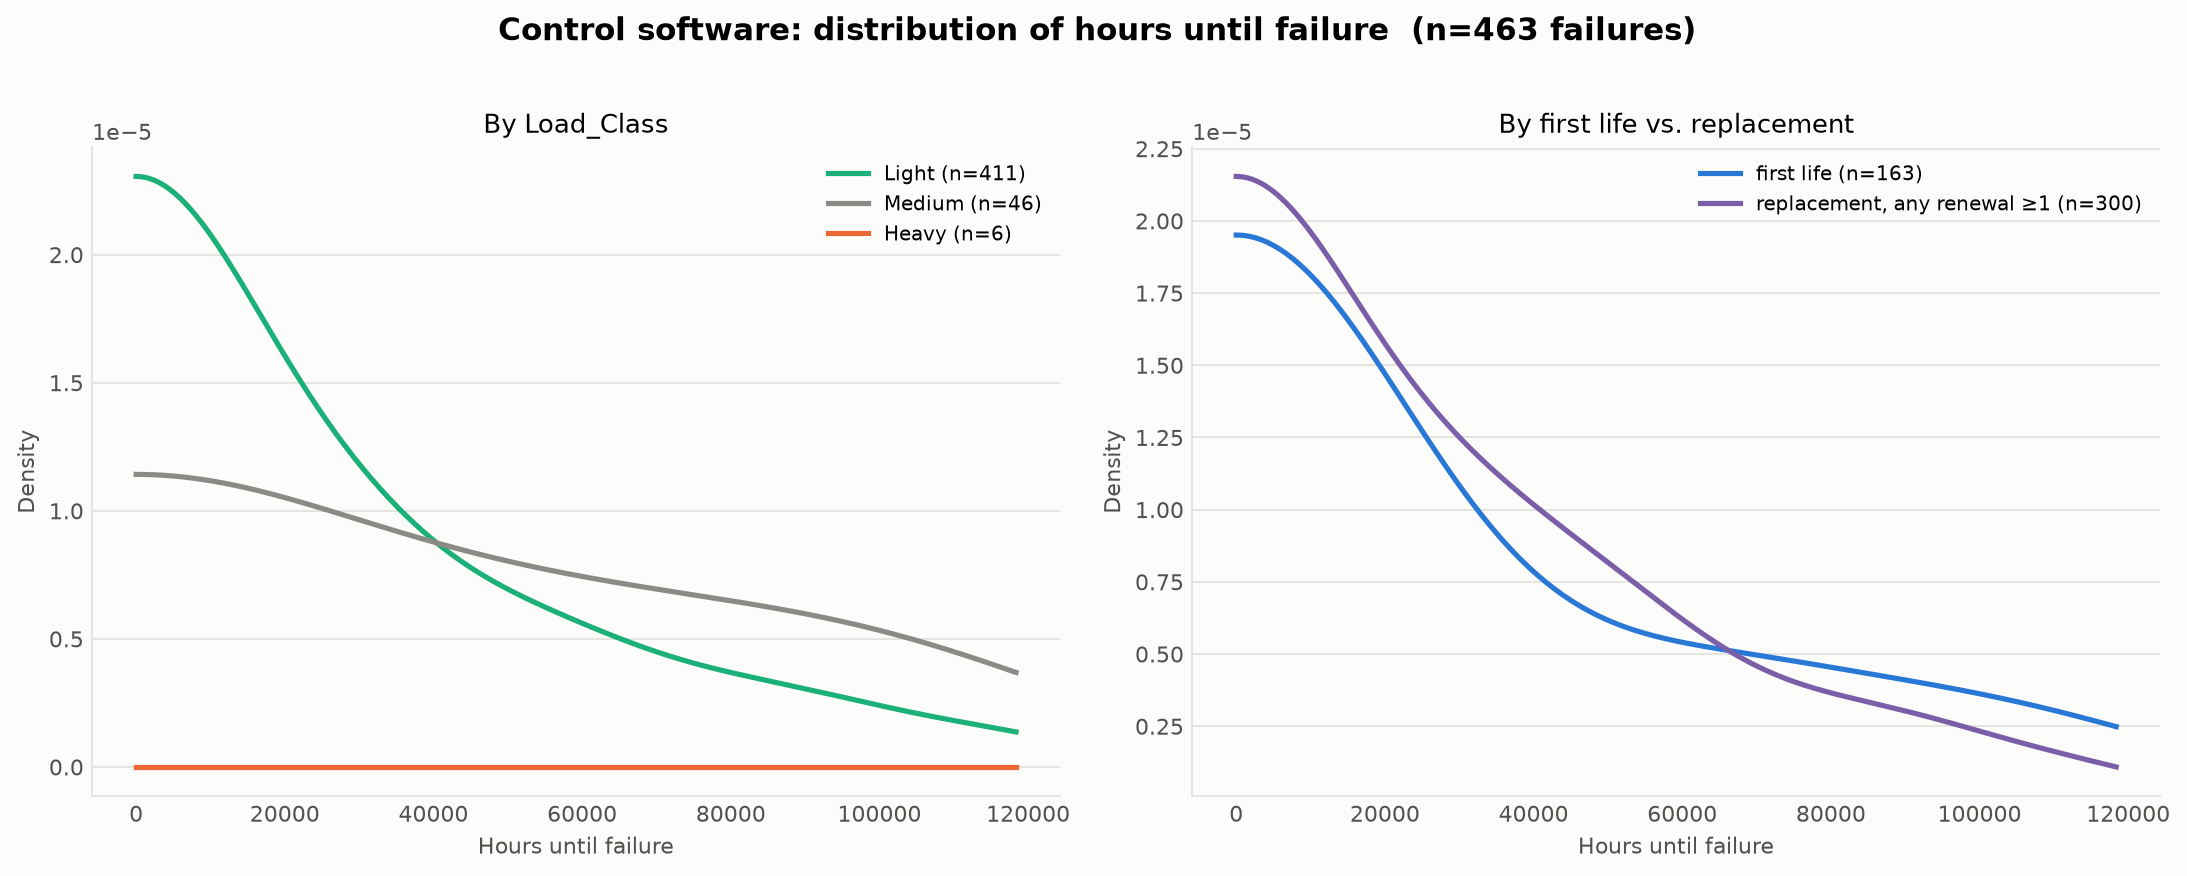
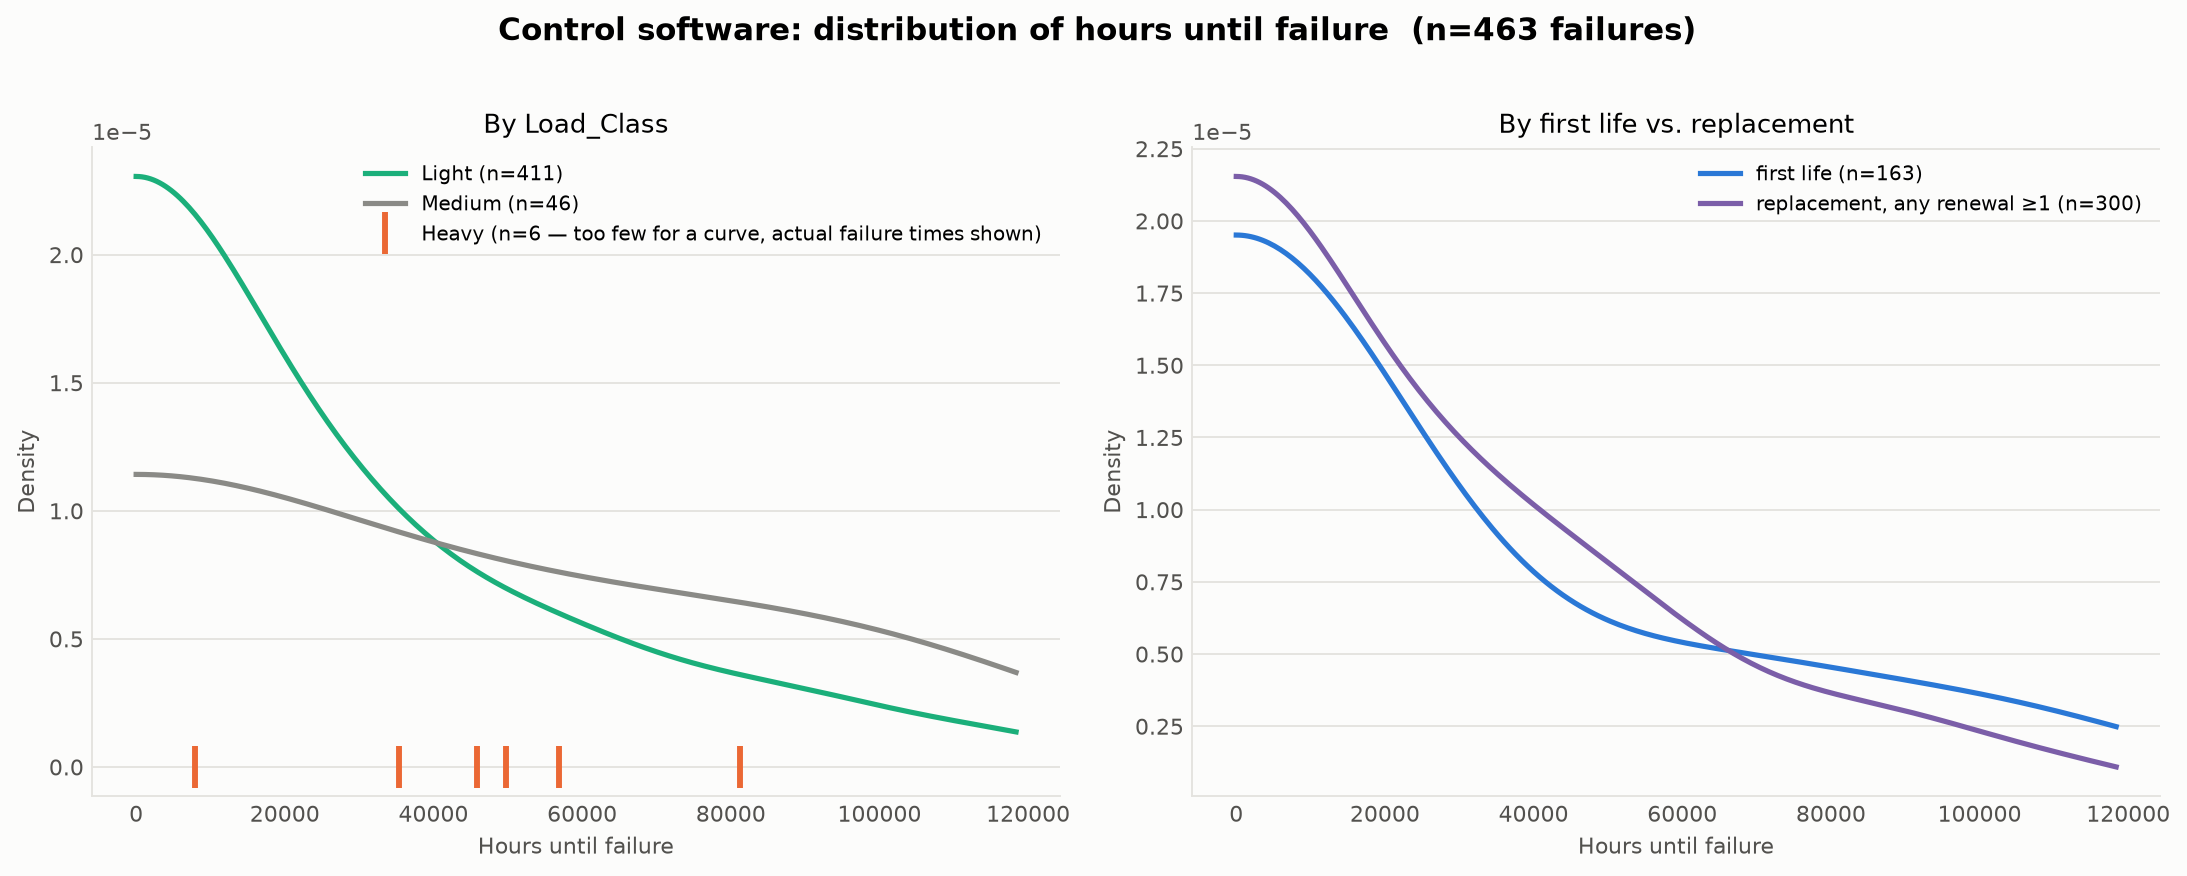
Fix misleading flat-zero line for small-n groups in bell curve plots
The n<15 guard in plot_other_component_bell_curves.py silently plotted a flat
line at density=0 instead of skipping/flagging the curve, which reads as "this
never happens" rather than "not enough data." Caught on Heavy Control_Software
(n=6): those failures are real (6 of them, at documented op-h values), just
too few to support a density estimate. Small-n groups now render as rug ticks
at their actual failure times instead.

Changed region(s): [[0.1555, 0.1849, 0.4664, 0.2774], [0.0622, 0.863, 0.4664, 0.8938]]

diff --git a/analysis/reliability_over_time/plot_other_component_bell_curves.py b/analysis/reliability_over_time/plot_other_component_bell_curves.py
@@ -40,6 +40,9 @@ def style(ax):
     ax.set_axisbelow(True)
 
 
+MIN_N_FOR_KDE = 15
+
+
 def kde_curve(vals, x_hi):
     # Reflection boundary correction: a plain KDE is biased near a hard boundary at 0
     # (it smooths mass to negative values that then just vanishes, which for a
@@ -48,10 +51,20 @@ def kde_curve(vals, x_hi):
     # Controller_PC before adding this). Mirroring the data across 0 and doubling the
     # resulting density on the positive side is the standard fix.
     xs = np.linspace(0, x_hi, 300)
-    if len(vals) < 15:
-        return xs, np.zeros_like(xs)
     reflected = np.concatenate([vals, -vals])
     return xs, 2 * gaussian_kde(reflected)(xs)
+
+
+def draw_group(ax, vals, x_hi, color, label):
+    """KDE curve if there's enough data to trust one; otherwise honest rug ticks --
+    never a fake flat/zero line, which would misread as "this never happens"."""
+    n = len(vals)
+    if n >= MIN_N_FOR_KDE:
+        xs, ys = kde_curve(vals, x_hi)
+        ax.plot(xs, ys, color=color, lw=2.2, label=f"{label} (n={n:,})")
+    else:
+        ax.plot(vals, np.zeros(n), "|", color=color, ms=18, mew=2.5,
+                 label=f"{label} (n={n} — too few for a curve, actual failure times shown)")
 
 
 def main():
@@ -65,8 +78,7 @@ def main():
         ax = axes[0]
         for load in ["Light", "Medium", "Heavy"]:
             g = ev[ev.load == load]
-            xs, ys = kde_curve(g.op_h.to_numpy(), x_hi)
-            ax.plot(xs, ys, color=LOAD_COLOR[load], lw=2.2, label=f"{load} (n={len(g):,})")
+            draw_group(ax, g.op_h.to_numpy(), x_hi, LOAD_COLOR[load], load)
         ax.set_title("By Load_Class", fontsize=11)
         ax.set_xlabel("Hours until failure")
         ax.set_ylabel("Density")
@@ -76,10 +88,8 @@ def main():
         ax = axes[1]
         first = ev[ev.renewal == 0]
         later = ev[ev.renewal >= 1]
-        xs, ys = kde_curve(first.op_h.to_numpy(), x_hi)
-        ax.plot(xs, ys, color=BLUE, lw=2.2, label=f"first life (n={len(first):,})")
-        xs, ys = kde_curve(later.op_h.to_numpy(), x_hi)
-        ax.plot(xs, ys, color=PURPLE, lw=2.2, label=f"replacement, any renewal ≥1 (n={len(later):,})")
+        draw_group(ax, first.op_h.to_numpy(), x_hi, BLUE, "first life")
+        draw_group(ax, later.op_h.to_numpy(), x_hi, PURPLE, "replacement, any renewal ≥1")
         ax.set_title("By first life vs. replacement", fontsize=11)
         ax.set_xlabel("Hours until failure")
         ax.set_ylabel("Density")

diff --git a/analysis/reliability_over_time/reliability_over_time_findings.md b/analysis/reliability_over_time/reliability_over_time_findings.md
@@ -232,26 +232,39 @@ sparse for a density estimate). Each gets two panels: by `Load_Class`, and by fi
 life (renewal 0) vs. any replacement (renewal ≥1). Reuses
 `outputs/req1/intervals_<component>.parquet` directly, no fleet re-query.
 
-**Methodological note, important for anyone reusing `plot_other_component_bell_curves.py`
-or `plot_bearing_lifetime_vs_load_3d.py`:** a plain Gaussian KDE is biased near a hard
-boundary at zero — it smooths probability mass to negative values that then just
-vanish, which for a near-random or infant-mortality component (true density highest
-*at* zero) fakes a peak away from zero that isn't really there. Caught this on
-Controller_PC (β≈0.99, should have maximum density at hours=0): the first KDE attempt
-showed a false peak around 8,000 hours; the raw histogram (rate 0.079/hour in the
-first 1,000 hours, declining monotonically after) confirmed the peak was fake. Fixed
-with a standard reflection correction (mirror the data across zero, double the
-resulting density on the positive side) in both this script and
-`plot_bearing_lifetime_vs_load_3d.py` (no visible effect there — Bearing is strongly
-wear-out, so true density near zero really is ~0 — but applied for consistency).
+**Two methodological bugs caught and fixed while building this, both worth recording
+for anyone reusing `plot_other_component_bell_curves.py` or
+`plot_bearing_lifetime_vs_load_3d.py`:**
+
+1. A plain Gaussian KDE is biased near a hard boundary at zero — it smooths
+   probability mass to negative values that then just vanish, which for a near-random
+   or infant-mortality component (true density highest *at* zero) fakes a peak away
+   from zero that isn't really there. Caught this on Controller_PC (β≈0.99, should have
+   maximum density at hours=0): the first KDE attempt showed a false peak around 8,000
+   hours; the raw histogram (rate 0.079/hour in the first 1,000 hours, declining
+   monotonically after) confirmed the peak was fake. Fixed with a standard reflection
+   correction (mirror the data across zero, double the resulting density on the
+   positive side) in both this script and `plot_bearing_lifetime_vs_load_3d.py` (no
+   visible effect there — Bearing is strongly wear-out, so true density near zero
+   really is ~0 — but applied for consistency).
+2. A guard meant to protect against unreliable density estimates from tiny samples
+   (`if len(vals) < 15: return zeros`) was silently plotting a **flat line at exactly
+   0** for any group with too few events — which reads as "this never happens," not
+   "not enough data to draw a curve." Caught when asked directly whether Heavy
+   Control_Software failures (n=6) are really zero: they are not — Heavy conveyors
+   failed by Control_Software 6 times (at 7,956 / 35,388 / 45,900 / 49,788 / 56,952 /
+   81,300 op-h), a real rate, just too few events for a reliable curve shape. Fixed:
+   groups with n < 15 now render as rug ticks at their actual failure times instead of
+   a fabricated zero line.
 
 - **Speed_Sensor's bell curve is visibly bimodal** once correctly shaped: a normal
   random-failure hump early, declining, then a second real bump right at the §1/§6
   ceiling — both mechanisms visible in one picture.
 - **Control_Software** clearly shows its infant-mortality shape (β=0.91): Light-class
-  failures peak early (~10,000 op-h) and decay; Heavy has only 6 failures fleet-wide,
-  too few to show a real shape (flat near-zero line — a sample-size limitation, not a
-  finding).
+  failures peak early (~10,000 op-h) and decay; Heavy's 6 failure times (rug ticks,
+  too few for a curve) spread across nearly the full range, roughly tracking Medium's
+  curve — consistent with Heavy failing by software about as rarely/randomly as
+  Medium, just with fewer Heavy conveyors (58 vs. 98) to generate events over 20 years.
 - **Controller_PC and Speed_Sensor (pre-ceiling) both show near-load-independent
   curves** (all three `Load_Class` lines overlap), consistent with their β≈1 fits —
   load doesn't shift these the way it does Bearing/Belt/Motor-Reducer.
